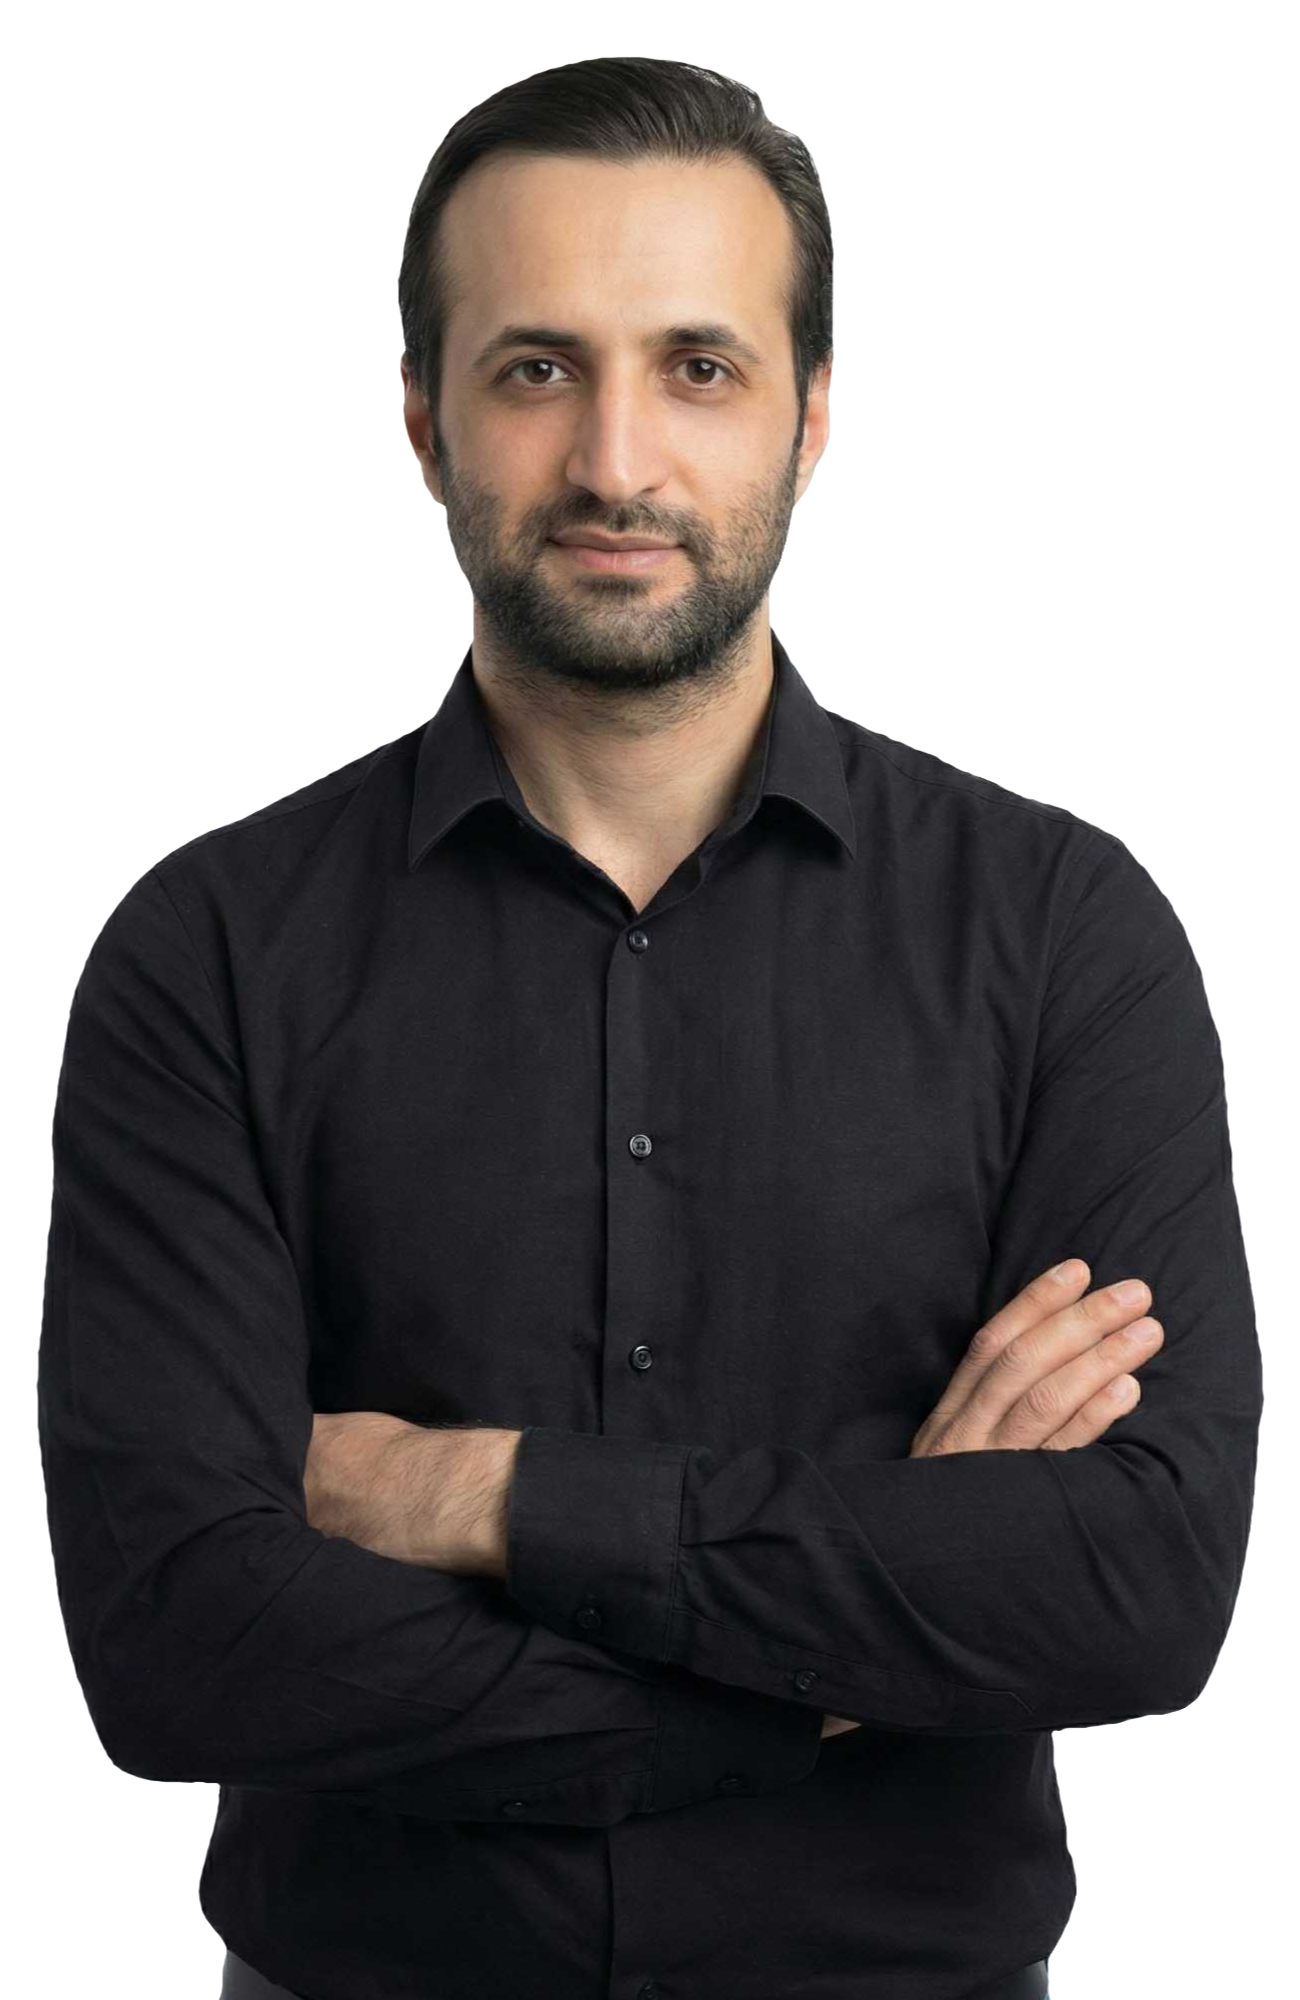
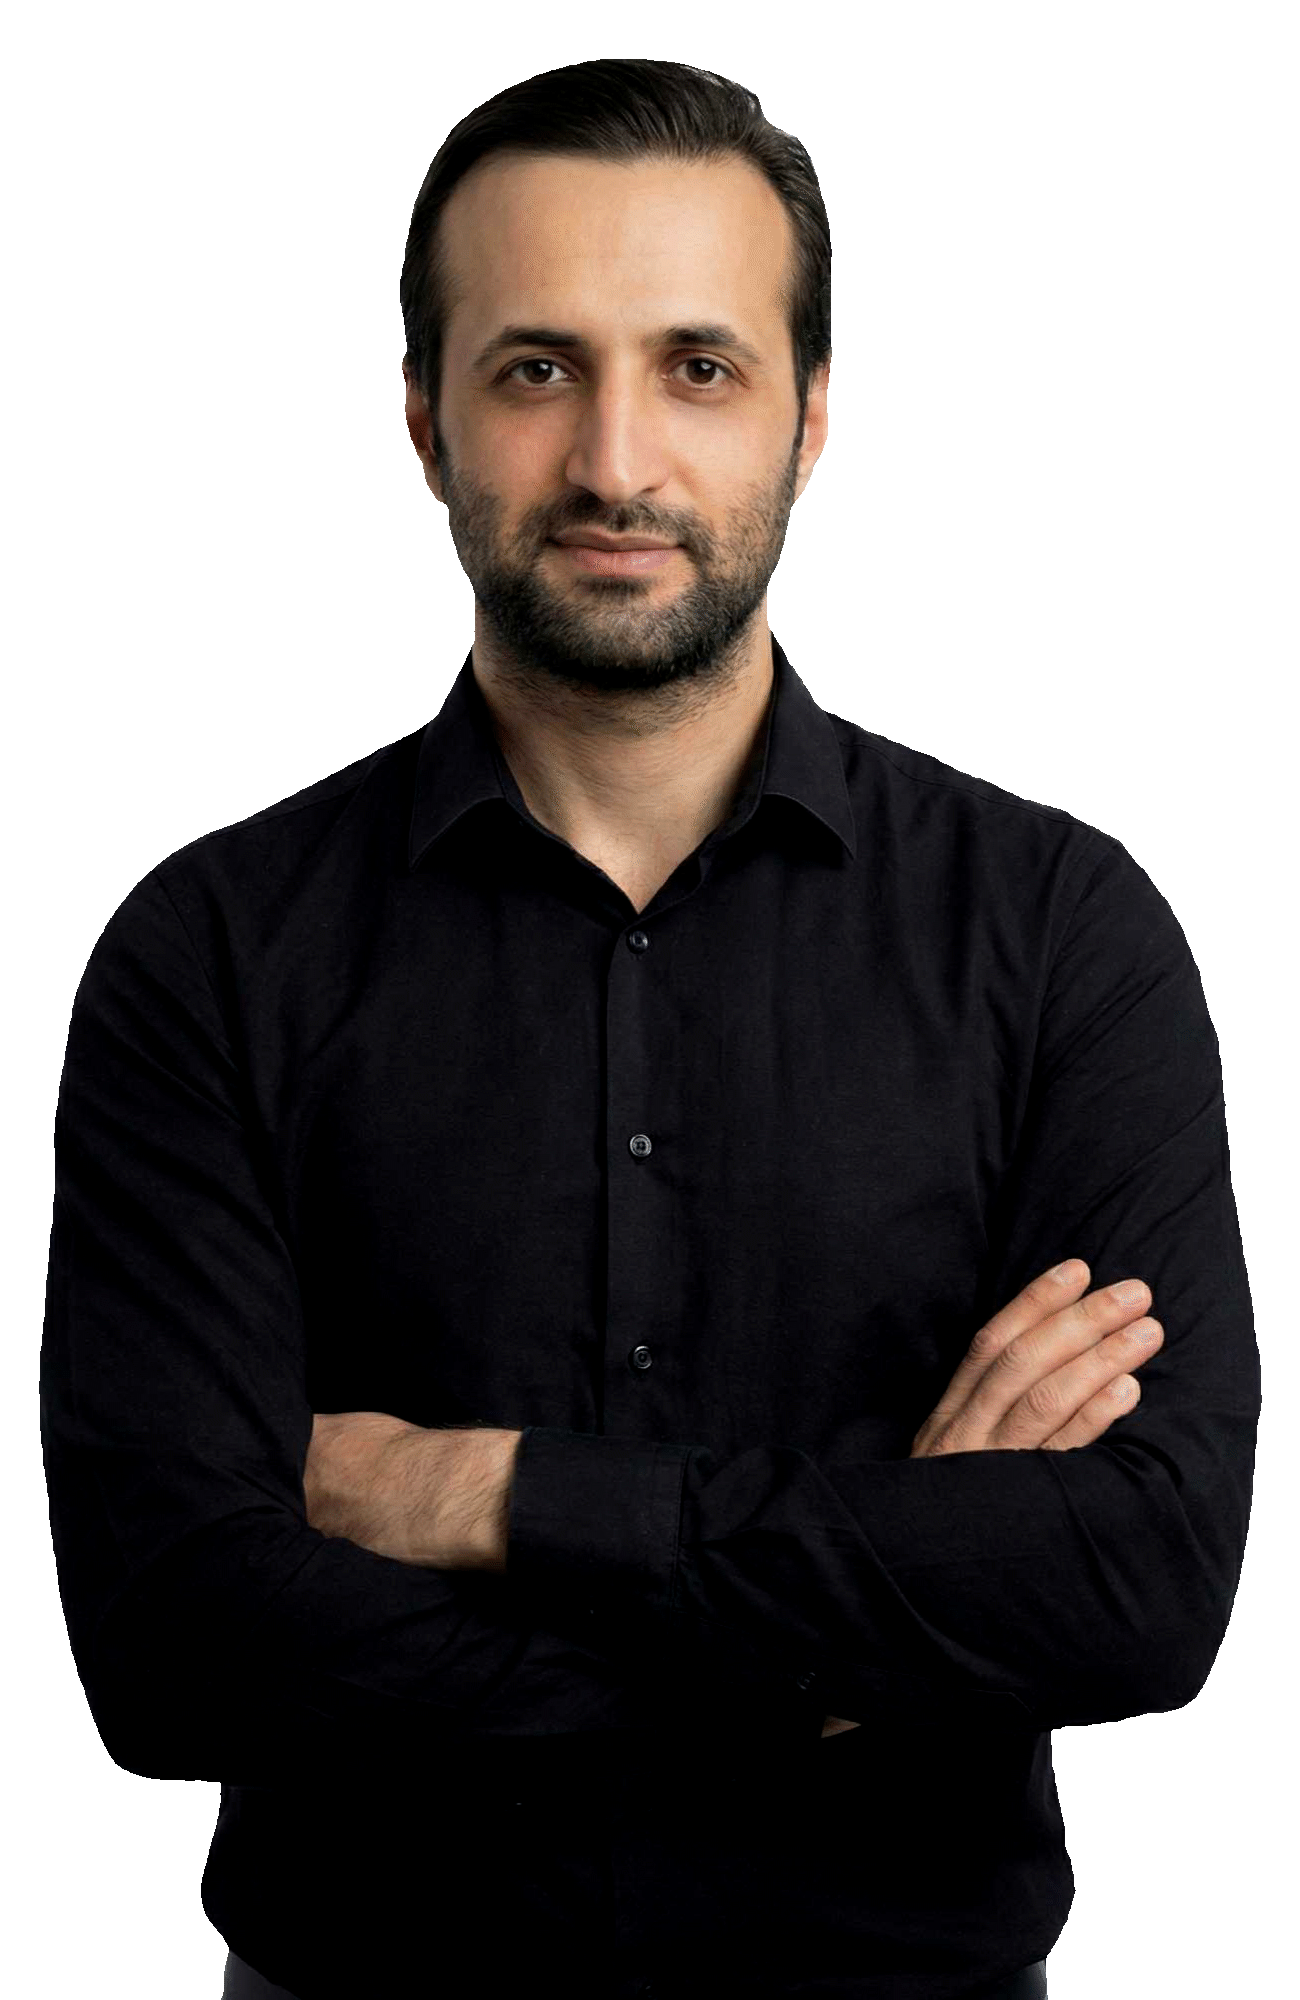
profile img change

diff --git a/src/app/main-page/hero-page/hero-page.html b/src/app/main-page/hero-page/hero-page.html
@@ -1,6 +1,6 @@
 <section>
     <div class="title">
-        <img class="img_profile" src="/assets/img/Foto.png">
+        <img class="img_profile" src="/assets/img/Foto2.png">
         <div class="text">
             <h4>Bremen</h4>
             <h1>{{languages.websiteLanguage.name}}</h1>
